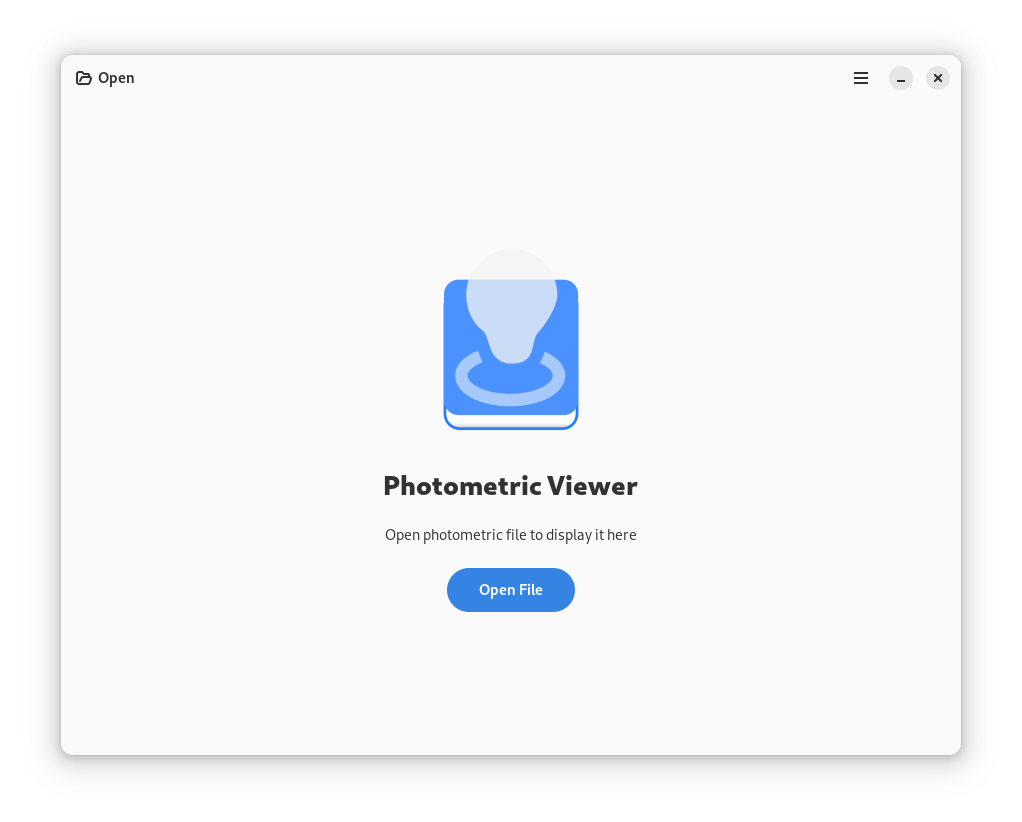
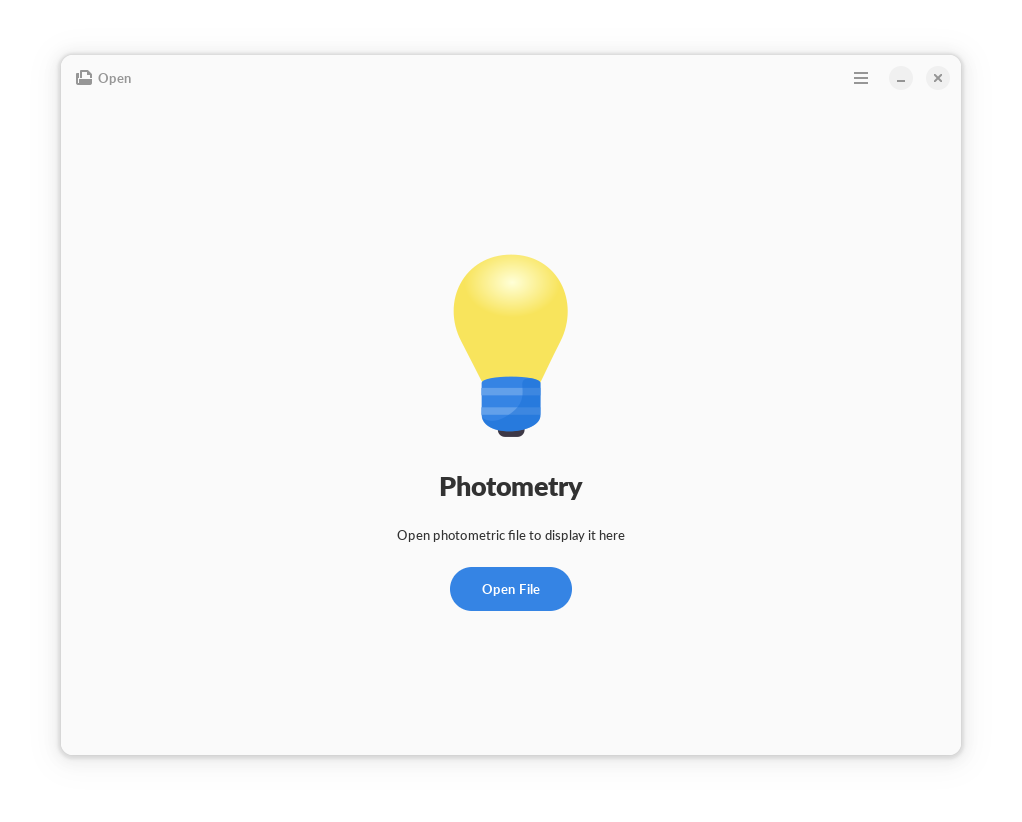
Prepare release of version 2.0.0

diff --git a/photometric_viewer/gui/dialogs/about.py b/photometric_viewer/gui/dialogs/about.py
@@ -7,7 +7,7 @@ class AboutWindow:
             application_name=_("Photometry"),
             application_icon="io.github.dlippok.photometric-viewer",
             developer_name="Damian Lippok",
-            version="1.6.1",
+            version="2.0.0",
             website="https://github.com/dlippok/photometric-viewer",
             issue_url="https://github.com/dlippok/photometric-viewer/issues",
             copyright="© 2023 Damian Lippok",

diff --git a/setup.py b/setup.py
@@ -27,7 +27,7 @@ class InstallCommand(install):
             )
 
 setup(name='photometric-viewer',
-      version='1.6.1',
+      version='2.0.0',
       description='Browse content of IES and LDT photometric files',
       url='http://github.com/dlippok/photoetric-viewer',
       author='Damian Lippok',
